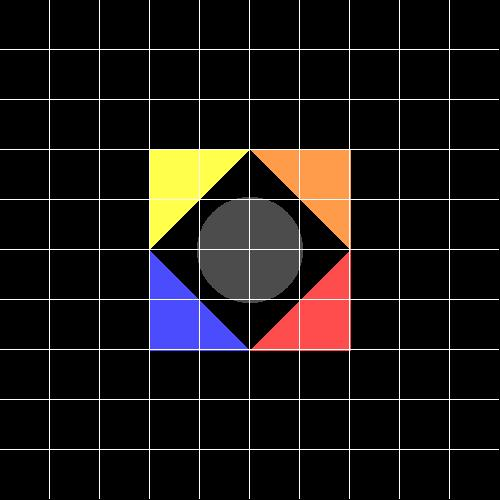
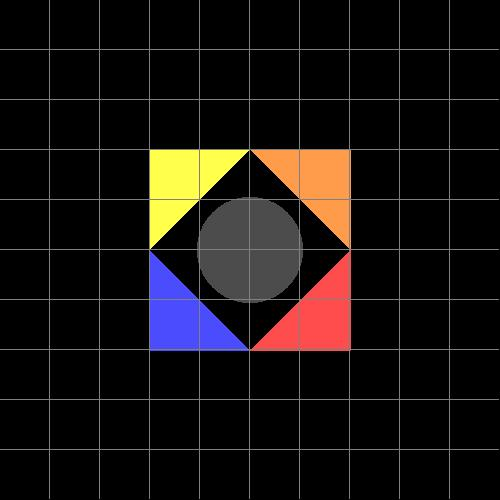
update

diff --git a/src/renderer/Render.java b/src/renderer/Render.java
@@ -39,7 +39,7 @@ public class Render {
 		for (int i = 0; i < _imageWriter.getNx() - 1; i++) {
 			for (int j = 0; j < _imageWriter.getNy() - 1; j++) {
 				if (((i + 1) % grid == 0) || (((j + 1) % grid) == 0))
-					_imageWriter.writePixel(i, j, 255, 255, 255);
+					_imageWriter.writePixel(i, j, 128, 128, 128);
 			}
 		}
 		_imageWriter.writeToimage();
@@ -79,7 +79,7 @@ public class Render {
 		Color color = new Color(_scene.get_ambientLight().getIntensity());
 		color = color.add(geometry.get_emmission());
 		
-		Vector n =geometry.getNormal(point);
+		/**Vector n =geometry.getNormal(point);
 		int nShininess=geometry._material.getnShininess();
 		 double kd = geometry._material.get_Kd();
 		 double ks = geometry._material.get_Ks();
@@ -90,8 +90,8 @@ public class Render {
 		 Vector l = lightSource.getL(point);
 		 Vector v = point.vectorsubtract(_scene.get_camera().get_p0());
 		 color.add(calcDiffusive(kd, l, n, lightIntensity),
-		 calcSpecular(ks, l, n, v, nShininess, lightIntensity));
-		}
+		 calcSpecular(ks, l, n, v, nShininess, lightIntensity));**/
+	//	}
 		 
 		 
 		 
